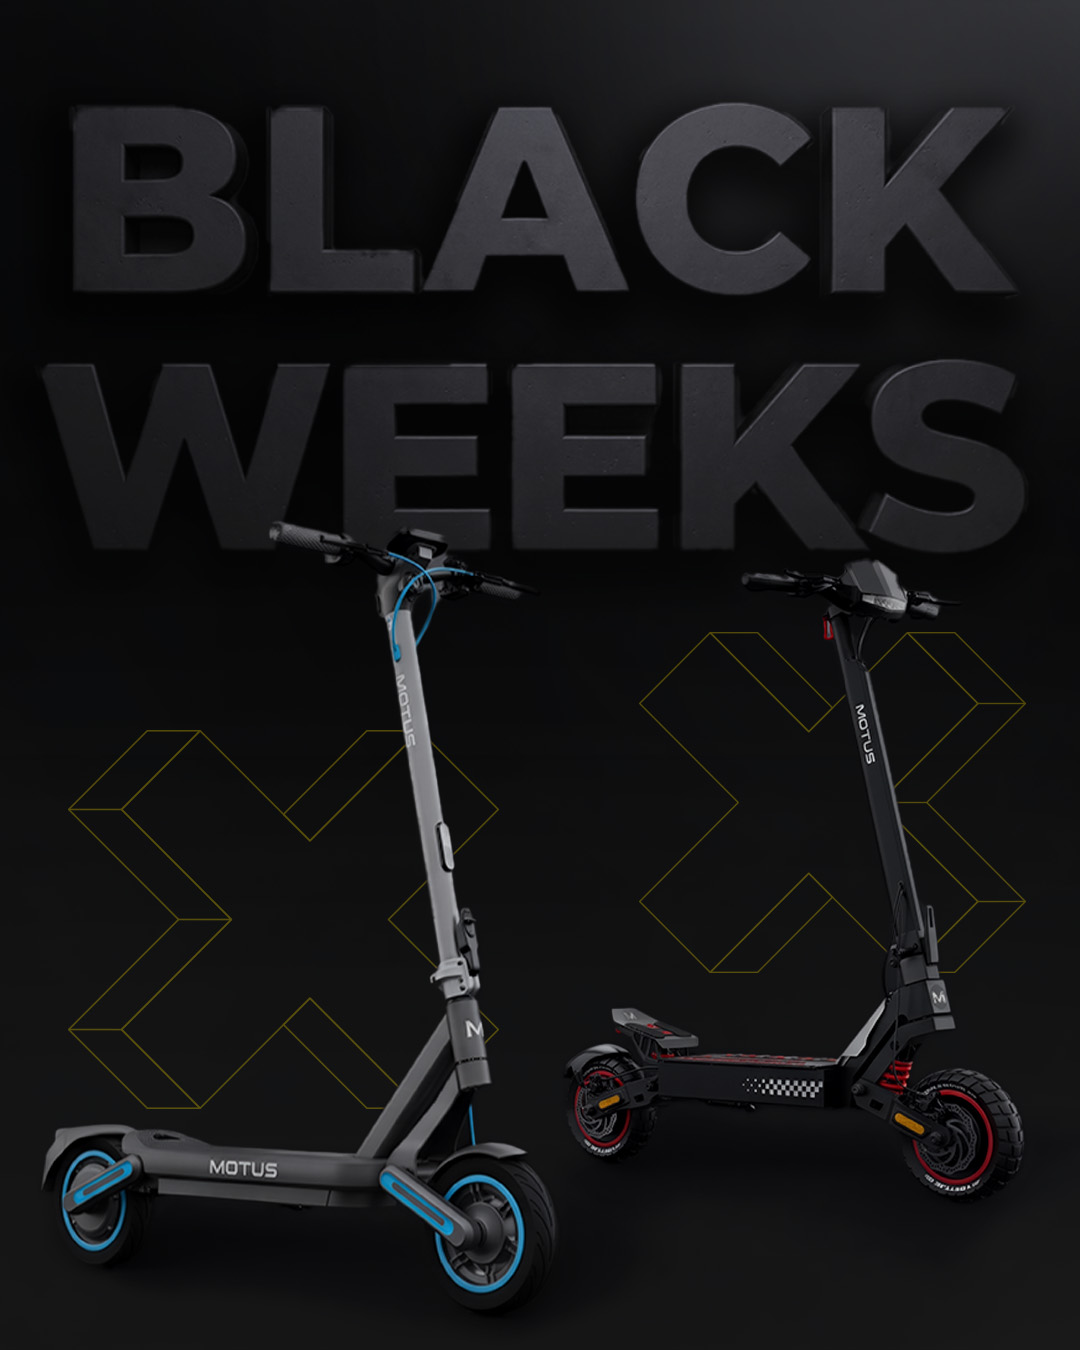
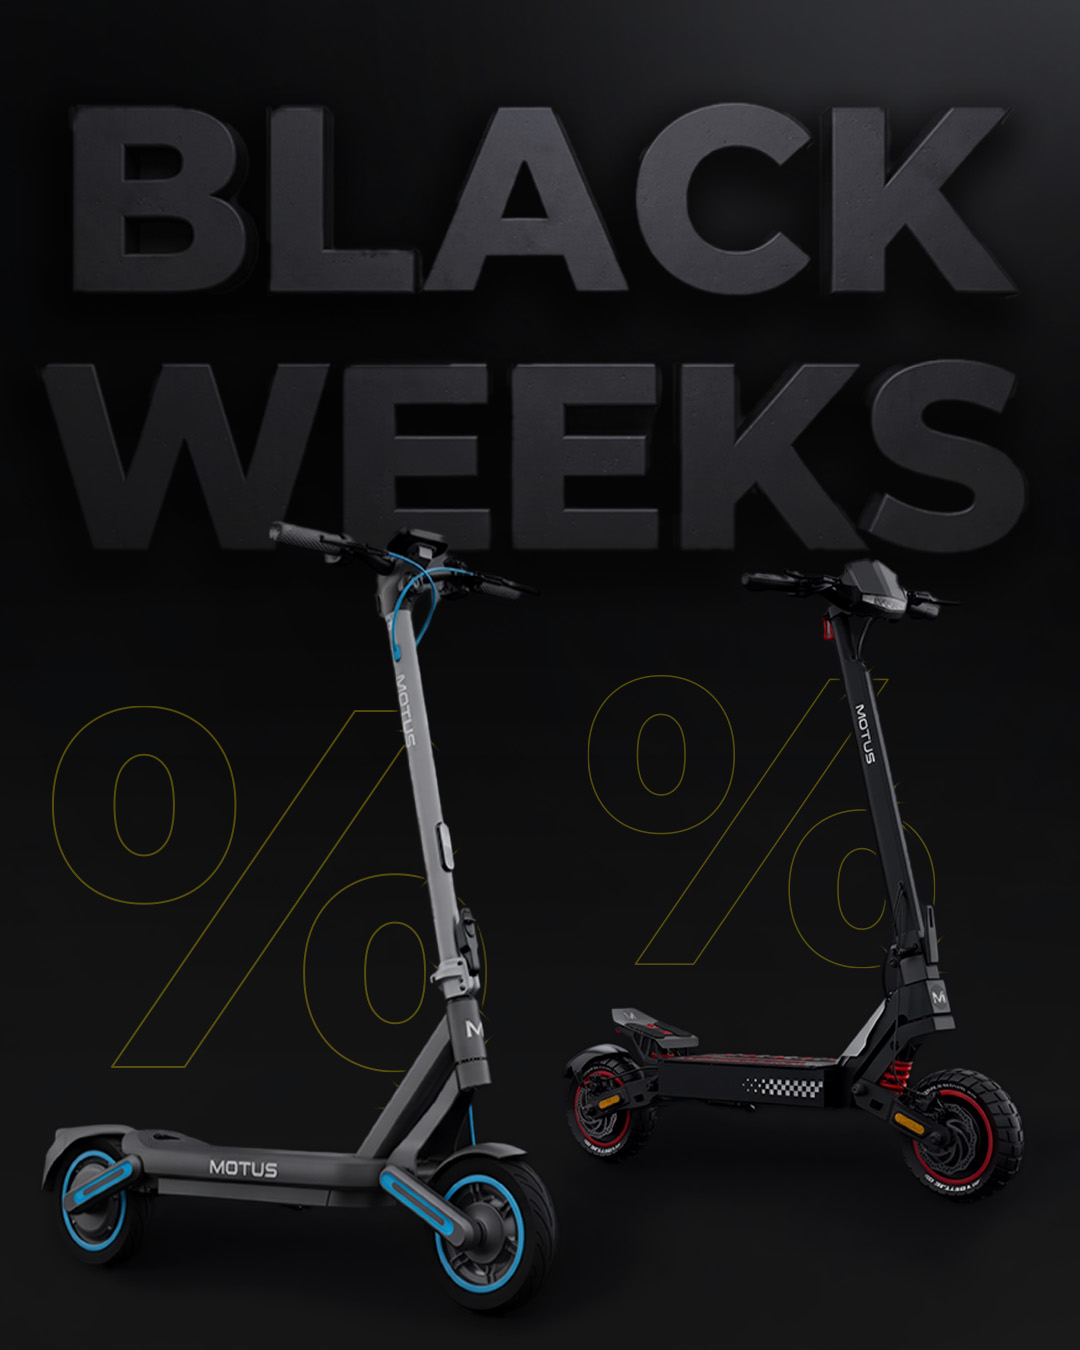
Add files via upload

diff --git a/index.html b/index.html
@@ -10,7 +10,7 @@
 <symbol id="instagram" viewBox="0 0 24 24"><rect x="3" y="3" width="18" height="18" rx="5"/><circle cx="12" cy="12" r="4"/><circle cx="18" cy="6" r=".7"/></symbol>
 <symbol id="youtube" viewBox="0 0 24 24"><rect x="2" y="5" width="20" height="14" rx="4"/><path d="m10 9 6 3-6 3Z"/></symbol>
 </defs></svg>
-<a class="top-strip bw-topbar" href="black-weeks.html" aria-label="BLACK WEEKS — zobacz oferty"><span>BLACK WEEKS</span></a><header><button class="menu-toggle" type="button" aria-label="Otwórz menu" aria-expanded="false" aria-controls="main-nav"><span></span><span></span><span></span></button><a class="brand" href="index.html" aria-label="MOTUS — strona główna"><img src="assets/motus.png" alt="MOTUS"></a><nav id="main-nav" aria-label="Główna nawigacja"><button type="button" class="nav-inactive" disabled>Fitness</button><button type="button" class="mega-trigger" data-mega="scooters" aria-expanded="false" aria-controls="mega-scooters">Hulajnogi</button><button type="button" class="nav-inactive">Egzoszkielety</button><button type="button" class="nav-inactive">Akcesoria</button><button type="button" class="nav-inactive">Serwis i Usługi</button></nav><div class="tools"><form id="search-form" role="search"><button aria-label="Szukaj"><img class="header-icon" src="assets/icon-search.png" alt=""></button><input aria-label="Wyszukaj produkt" placeholder="Szukaj" maxlength="80"></form><button class="icon-button" data-demo="Panel klienta" aria-label="Konto klienta"><img class="header-icon" src="assets/icon-user.png" alt=""></button><button class="icon-button" data-demo="Twój koszyk jest pusty." aria-label="Koszyk"><img class="header-icon" src="assets/icon-cart.png" alt=""></button></div><div class="mega-shell" id="mega-shell" hidden></div></header><button class="menu-backdrop" type="button" aria-label="Zamknij menu" hidden></button>
+<a class="top-strip bw-topbar" href="black-weeks.html" aria-label="BLACK WEEKS — promocje do -30%, zobacz oferty"><span class="bw-strip-messages" aria-hidden="true"><span class="bw-strip-message">BLACK WEEKS</span><span class="bw-strip-message">PROMOCJE DO -30%</span></span></a><header><button class="menu-toggle" type="button" aria-label="Otwórz menu" aria-expanded="false" aria-controls="main-nav"><span></span><span></span><span></span></button><a class="brand" href="index.html" aria-label="MOTUS — strona główna"><img src="assets/motus.png" alt="MOTUS"></a><nav id="main-nav" aria-label="Główna nawigacja"><button type="button" class="nav-inactive" disabled>Fitness</button><button type="button" class="mega-trigger" data-mega="scooters" aria-expanded="false" aria-controls="mega-scooters">Hulajnogi</button><button type="button" class="nav-inactive">Egzoszkielety</button><button type="button" class="nav-inactive">Akcesoria</button><button type="button" class="nav-inactive">Serwis i Usługi</button></nav><div class="tools"><form id="search-form" role="search"><button aria-label="Szukaj"><img class="header-icon" src="assets/icon-search.png" alt=""></button><input aria-label="Wyszukaj produkt" placeholder="Szukaj" maxlength="80"></form><button class="icon-button" data-demo="Panel klienta" aria-label="Konto klienta"><img class="header-icon" src="assets/icon-user.png" alt=""></button><button class="icon-button" data-demo="Twój koszyk jest pusty." aria-label="Koszyk"><img class="header-icon" src="assets/icon-cart.png" alt=""></button></div><div class="mega-shell" id="mega-shell" hidden></div></header><button class="menu-backdrop" type="button" aria-label="Zamknij menu" hidden></button>
 <main id="main-content"><section class="tiles" aria-label="Kategorie MOTUS"><article class="tile wide longevity-carousel" aria-label="Longevity"><picture><source media="(max-width: 600px)" srcset="assets/fitness-mobile_1.jpg" width="1080" height="1350"><img class="category-image" width="1816" height="612" fetchpriority="high" src="assets/fitness.jpg" alt="Placeholder grafiki fitness"></picture><button class="ai" type="button" aria-label="Informacja o grafice AI" aria-expanded="false"><span class="ai-mark">Ai</span><span class="ai-copy">Grafika wygenerowana przy użyciu sztucznej inteligencji (AI).</span></button><div class="tile-overlay"><h2>Longevity</h2><p>Więcej ruchu. Na Twoich zasadach.</p><div class="tile-actions"><button type="button" data-category="Longevity">Przeglądaj</button><button type="button" data-demo="Longevity — dowiedz się więcej">Dowiedz się więcej</button></div></div></article><article class="tile" aria-label="Scooty"><picture><source media="(max-width: 600px)" srcset="assets/city-mobile.jpg" width="1080" height="1350"><img class="category-image" width="895" height="612" loading="lazy" src="assets/city.jpg" alt="Placeholder hulajnóg miejskich"></picture><button class="ai" type="button" aria-label="Informacja o grafice AI" aria-expanded="false"><span class="ai-mark">Ai</span><span class="ai-copy">Grafika wygenerowana przy użyciu sztucznej inteligencji (AI).</span></button><div class="tile-overlay"><h2>Scooty</h2><p>Miasto w Twoim rytmie</p><div class="tile-actions"><button type="button" data-category="Scooty">Przeglądaj</button><button type="button" data-demo="Scooty — dowiedz się więcej">Dowiedz się więcej</button></div></div></article><article class="tile" aria-label="Daytona"><picture><source media="(max-width: 600px)" srcset="assets/power-mobile.jpg" width="1080" height="1350"><img class="category-image" width="895" height="612" loading="lazy" src="assets/power.jpg" alt="Placeholder hulajnóg terenowych"></picture><button class="ai" type="button" aria-label="Informacja o grafice AI" aria-expanded="false"><span class="ai-mark">Ai</span><span class="ai-copy">Grafika wygenerowana przy użyciu sztucznej inteligencji (AI).</span></button><div class="tile-overlay"><h2>Daytona</h2><p>Odkryj nowy wymiar mocy</p><div class="tile-actions"><button type="button" data-category="Daytona">Przeglądaj</button><button type="button" data-demo="Daytona — dowiedz się więcej">Dowiedz się więcej</button></div></div></article><article class="tile wide" aria-label="Egzoszkielety"><picture><source media="(max-width: 600px)" srcset="assets/exo-mobile.jpg" width="1080" height="1350"><img class="category-image" width="1816" height="612" loading="lazy" src="assets/exo.jpg" alt="Placeholder egzoszkieletów"></picture><button class="ai" type="button" aria-label="Informacja o grafice AI" aria-expanded="false"><span class="ai-mark">Ai</span><span class="ai-copy">Grafika wygenerowana przy użyciu sztucznej inteligencji (AI).</span></button><div class="tile-overlay"><h2>Egzoszkielety</h2><p>Wsparcie w każdym ruchu</p><div class="tile-actions"><button type="button" data-category="Egzoszkielety">Przeglądaj</button><button type="button" data-demo="Egzoszkielety — dowiedz się więcej">Dowiedz się więcej</button></div></div></article></section>
 <section class="why-motus" aria-labelledby="why-title"><div class="section-heading"><h2 id="why-title">Dlaczego MOTUS?</h2><p>Co zyskujesz w oficjalnym sklepie MOTUS.</p></div><div class="benefits-grid"><article class="benefit-card"><div class="benefit-icon"><img src="assets/benefit-store.png" width="64" height="64" loading="lazy" alt=""></div><h3>Kupujesz prosto od marki</h3><p>Zamawiasz bezpośrednio u MOTUS, marki, która w Polsce odpowiada za gwarancję, serwis i części.</p><button type="button" class="text-action" data-demo="Poznaj MOTUS">Poznaj MOTUS<span aria-hidden="true">↗</span></button></article><article class="benefit-card"><div class="benefit-icon"><img src="assets/benefit-service.png" width="64" height="64" loading="lazy" alt=""></div><h3>Ponad 20 punktów serwisowych</h3><p>Autoryzowane serwisy w Polsce.</p><button type="button" class="text-action" data-demo="Znajdź serwis">Znajdź serwis<span aria-hidden="true">↗</span></button></article><article class="benefit-card"><div class="benefit-icon"><img src="assets/benefit-delivery.png" width="64" height="64" loading="lazy" alt=""></div><h3>Darmowa dostawa od 250 zł</h3><p>InPost Kurier, UPS albo DHL. Do 249,99 zł dostawa kosztuje 12 zł.</p><button type="button" class="text-action" data-demo="Zobacz warunki">Zobacz warunki<span aria-hidden="true">↗</span></button></article><article class="benefit-card"><div class="benefit-icon"><img src="assets/benefit-shield.png" width="64" height="64" loading="lazy" alt=""></div><h3>2 lata gwarancji</h3><p>Na hulajnogi elektryczne Motus, z naprawami gwarancyjnymi w Polsce.</p><button type="button" class="text-action" data-demo="Sprawdź warunki">Sprawdź warunki<span aria-hidden="true">↗</span></button></article><article class="benefit-card"><div class="benefit-icon"><img src="assets/benefit-helmet.png" width="64" height="64" loading="lazy" alt=""></div><h3>Akcesoria</h3><p>Kaski, zabezpieczenia, pielęgnacja i odzież MOTUS.</p><button type="button" class="text-action" data-demo="Zobacz kategorię">Zobacz kategorię<span aria-hidden="true">↗</span></button></article><article class="benefit-card"><div class="benefit-icon"><img src="assets/benefit-gps.png" width="64" height="64" loading="lazy" alt=""></div><h3>Usługi przy zakupie</h3><p>Dodatkowe doszczelnienie i montaż lokalizatora GPS.</p><button type="button" class="text-action" data-demo="Zobacz usługi">Zobacz usługi<span aria-hidden="true">↗</span></button></article></div></section><section class="premiere" aria-labelledby="premiere-title"><h1 id="premiere-title">Bądź pierwszy przy nowościach MOTUS</h1><p>Zostaw e-mail, a napiszemy, gdy ruszy premiera nowego modelu.</p><form class="newsletter light" novalidate><label class="signup-label" for="premiere-email">Adres e-mail</label><div class="email-row"><input id="premiere-email" aria-describedby="premiere-status" type="email" autocomplete="email" inputmode="email" aria-label="Adres e-mail" placeholder="Adres e-mail" required maxlength="254"><button type="submit">Zapisz się</button></div><label class="consent"><input type="checkbox" required><span>Chcę otrzymywać e-mailem informacje o nowościach i ofercie MOTUS. Zgodę mogę wycofać w każdej chwili. Więcej w <button type="button" data-demo="Polityka prywatności">Polityce prywatności</button>.</span></label><p id="premiere-status" class="form-status" aria-live="polite" aria-atomic="true"></p></form></section></main>
 <footer><div class="footer-top"><section class="contact"><a href="index.html"><img class="footer-logo" src="assets/motus-white.png" alt="MOTUS"></a><div class="socials"><button data-demo="Facebook MOTUS" aria-label="Facebook"><b>f</b></button><button data-demo="Instagram MOTUS" aria-label="Instagram"><svg><use href="#instagram"/></svg></button><button data-demo="YouTube MOTUS" aria-label="YouTube"><svg><use href="#youtube"/></svg></button><button data-demo="TikTok MOTUS" aria-label="TikTok"><b>♪</b></button></div><p>Obsługa klienta: pon.-pt. 8:00-16:00</p><a class="contact-link" href="tel:+48128899935"><i><svg><use href="#phone"/></svg></i>12 889 99 35</a><a class="contact-link" href="mailto:sklep@motus.pl"><i><svg><use href="#mail"/></svg></i>sklep@motus.pl</a></section><section><h2>Hulajnogi</h2><div class="footer-links" data-links="Wszystkie hulajnogi|Scooty 8.5|Scooty 10|Daytona|Porównaj hulajnogi"></div></section><section><h2>Fitness i akcesoria</h2><div class="footer-links" data-links="Fitness|Walking pady|Bieżnie|Porównaj bieżnie|Egzoszkielety|Akcesoria|Kaski|Zabezpieczenia"></div></section><section><h2>Pomoc</h2><div class="footer-links" data-links="Usługi dodatkowe|Dostawa i płatności|Raty 0%|Gwarancja i serwis|Autoryzowane serwisy|Instrukcje|Pomoc i FAQ|Kontakt"></div></section><section><h2>O MOTUS</h2><div class="footer-links" data-links="O nas"></div></section></div><section class="footer-news"><h2>Newsletter MOTUS</h2><p>Nowości i informacje od MOTUS prosto na Twój e-mail.</p><form class="newsletter dark" novalidate><div class="email-row"><input type="email" autocomplete="email" inputmode="email" aria-label="Twój e-mail do newslettera" placeholder="Wprowadź swój email" required maxlength="254"><button type="submit" aria-label="Zapisz się do newslettera"><svg><use href="#arrow"/></svg></button></div><label class="consent"><input type="checkbox" required><span>Chcę otrzymywać e-mailem informacje o nowościach i ofercie MOTUS. Zgodę mogę wycofać w każdej chwili. Więcej w <button type="button" data-demo="Polityka prywatności">Polityce prywatności</button>.</span></label><p class="form-status" aria-live="polite"></p></form></section><div class="footer-bottom"><div><p>© 2026 MOTUS</p><div class="legal" data-links="Polityka prywatności|Warunki świadczenia usług|Polityka zwrotu kosztów|Polityka wysyłki|Dane kontaktowe|Nota prawna"></div></div><img src="assets/payments.png" alt="Placeholder metod płatności"></div></footer>

diff --git a/black-weeks.html b/black-weeks.html
@@ -10,7 +10,7 @@
 <symbol id="instagram" viewBox="0 0 24 24"><rect x="3" y="3" width="18" height="18" rx="5"/><circle cx="12" cy="12" r="4"/><circle cx="18" cy="6" r=".7"/></symbol>
 <symbol id="youtube" viewBox="0 0 24 24"><rect x="2" y="5" width="20" height="14" rx="4"/><path d="m10 9 6 3-6 3Z"/></symbol>
 </defs></svg>
-<a class="top-strip bw-topbar" href="black-weeks.html" aria-label="BLACK WEEKS — zobacz oferty"><span>BLACK WEEKS</span></a><header><button class="menu-toggle" type="button" aria-label="Otwórz menu" aria-expanded="false" aria-controls="main-nav"><span></span><span></span><span></span></button><a class="brand" href="index.html" aria-label="MOTUS — strona główna"><img src="assets/motus.png" alt="MOTUS"></a><nav id="main-nav" aria-label="Główna nawigacja"><button type="button" class="nav-inactive" disabled>Fitness</button><button type="button" class="mega-trigger" data-mega="scooters" aria-expanded="false" aria-controls="mega-scooters">Hulajnogi</button><button type="button" class="nav-inactive">Egzoszkielety</button><button type="button" class="nav-inactive">Akcesoria</button><button type="button" class="nav-inactive">Serwis i Usługi</button></nav><div class="tools"><form id="search-form" role="search"><button aria-label="Szukaj"><img class="header-icon" src="assets/icon-search.png" alt=""></button><input aria-label="Wyszukaj produkt" placeholder="Szukaj" maxlength="80"></form><button class="icon-button" data-demo="Panel klienta" aria-label="Konto klienta"><img class="header-icon" src="assets/icon-user.png" alt=""></button><button class="icon-button" data-demo="Twój koszyk jest pusty." aria-label="Koszyk"><img class="header-icon" src="assets/icon-cart.png" alt=""></button></div><div class="mega-shell" id="mega-shell" hidden></div></header><button class="menu-backdrop" type="button" aria-label="Zamknij menu" hidden></button>
+<a class="top-strip bw-topbar" href="black-weeks.html" aria-label="BLACK WEEKS — promocje do -30%, zobacz oferty"><span class="bw-strip-messages" aria-hidden="true"><span class="bw-strip-message">BLACK WEEKS</span><span class="bw-strip-message">PROMOCJE DO -30%</span></span></a><header><button class="menu-toggle" type="button" aria-label="Otwórz menu" aria-expanded="false" aria-controls="main-nav"><span></span><span></span><span></span></button><a class="brand" href="index.html" aria-label="MOTUS — strona główna"><img src="assets/motus.png" alt="MOTUS"></a><nav id="main-nav" aria-label="Główna nawigacja"><button type="button" class="nav-inactive" disabled>Fitness</button><button type="button" class="mega-trigger" data-mega="scooters" aria-expanded="false" aria-controls="mega-scooters">Hulajnogi</button><button type="button" class="nav-inactive">Egzoszkielety</button><button type="button" class="nav-inactive">Akcesoria</button><button type="button" class="nav-inactive">Serwis i Usługi</button></nav><div class="tools"><form id="search-form" role="search"><button aria-label="Szukaj"><img class="header-icon" src="assets/icon-search.png" alt=""></button><input aria-label="Wyszukaj produkt" placeholder="Szukaj" maxlength="80"></form><button class="icon-button" data-demo="Panel klienta" aria-label="Konto klienta"><img class="header-icon" src="assets/icon-user.png" alt=""></button><button class="icon-button" data-demo="Twój koszyk jest pusty." aria-label="Koszyk"><img class="header-icon" src="assets/icon-cart.png" alt=""></button></div><div class="mega-shell" id="mega-shell" hidden></div></header><button class="menu-backdrop" type="button" aria-label="Zamknij menu" hidden></button>
 <main id="main-content" class="bw-main">
 <div class="bw-breadcrumb"><a href="index.html">Strona główna</a><span aria-hidden="true">/</span><span aria-current="page">Black Weeks</span></div>
 <section class="bw-hero" aria-label="Baner BLACK WEEKS MOTUS"><picture><source media="(max-width:600px)" srcset="assets/black-weeks-hero-mobile.jpg" width="1080" height="1350"><img src="assets/black-weeks-hero.jpg" width="1816" height="612" alt="Czarna i grafitowa kompozycja z żółtym akcentem — baner Black Weeks MOTUS" fetchpriority="high"></picture></section>

diff --git a/black-weeks.css b/black-weeks.css
@@ -90,3 +90,26 @@ header nav button.nav-inactive:disabled{opacity:1;color:inherit;cursor:default}
 header nav button.nav-inactive:disabled:hover{color:inherit}
 @media(max-width:1024px){.bw-page .bw-category-nav a>span{font-size:11px;gap:12px}.bw-page .bw-intro{gap:28px}.bw-page .bw-category-nav a{padding:18px 22px}.bw-page .bw-section-head h2{gap:18px}}
 @media(max-width:600px){.bw-page .bw-intro{padding:32px 4px;gap:24px}.bw-page .bw-intro-copy{justify-self:start}.bw-page .bw-category-nav a{padding:15px 18px;min-height:62px}.bw-page .bw-category-nav strong{font-size:16px}.bw-page .bw-category-nav a>span{display:none}.bw-page .bw-shopping-tools{padding-top:20px;gap:10px}.bw-page .bw-product-section{padding:32px 0 22px}.bw-page .bw-product-section+.bw-product-section{margin-top:16px;padding-top:36px}.bw-page .bw-section-head h2{font-size:36px;display:block;letter-spacing:-1px}.bw-page .bw-section-head h2 span{display:block;font-size:14px;margin-top:8px}.bw-page .bw-section-head{margin-bottom:22px}.bw-page .bw-help{margin-top:32px}}
+
+
+/* Revision 22: synchronized right-to-left sale wipe. */
+.bw-page{--bw-scooty:var(--aqua);--bw-daytona:#e53935}
+.bw-page .bw-category-nav a[href="#scooty"].is-active,
+.bw-page .bw-category-nav a[href="#scooty"].is-active strong{background:var(--bw-scooty);color:#fff}
+.bw-page .bw-category-nav a[href="#daytona"].is-active{background:var(--bw-daytona);color:#fff}
+.bw-page .bw-category-nav a[href="#daytona"].is-active strong{color:#fff}
+.bw-page #scooty .bw-section-head h2 span{color:var(--bw-scooty)}
+.bw-page #daytona .bw-section-head h2 span{color:var(--bw-daytona)}
+a.bw-topbar,a.bw-topbar:hover{color:#888;overflow:hidden}
+a.bw-topbar span,a.bw-topbar:hover span,a.bw-topbar:focus-visible span{animation:none;text-shadow:none;transform:none;will-change:auto}
+a.bw-topbar .bw-strip-messages{position:relative;display:block;width:min(100%,420px);height:1.8em;overflow:hidden;isolation:isolate;font-weight:850}
+a.bw-topbar .bw-strip-messages .bw-strip-message{position:absolute;inset:0;display:flex;align-items:center;justify-content:center;white-space:nowrap;font-size:inherit;color:#888;animation:bw-wipe-title 12s linear infinite;will-change:clip-path;transform:none;text-shadow:none}
+a.bw-topbar .bw-strip-messages .bw-strip-message:nth-child(2){color:#ffe100;text-shadow:0 0 10px #ffe10070,0 0 22px #ffe10030;animation-name:bw-wipe-sale;animation-delay:0s}
+a.bw-topbar .bw-strip-messages::after{content:'';position:absolute;top:0;bottom:0;left:0;width:2px;background:#ffe100;box-shadow:8px 0 12px 6px #050505b3,-2px 0 8px #ffe10070;pointer-events:none;z-index:2;animation:bw-wipe-line 12s linear infinite}
+@keyframes bw-wipe-title{0%,40%{clip-path:inset(0 0 0 0)}48%,90%{clip-path:inset(0 100% 0 0)}90.01%{clip-path:inset(0 0 0 100%)}98%,100%{clip-path:inset(0 0 0 0)}}
+@keyframes bw-wipe-sale{0%,40%{clip-path:inset(0 0 0 100%)}48%,90%{clip-path:inset(0 0 0 0)}98%,100%{clip-path:inset(0 100% 0 0)}}
+@keyframes bw-wipe-line{0%,39.99%{left:100%;opacity:0}40%{left:100%;opacity:1}48%{left:0;opacity:1}48.01%,89.99%{left:100%;opacity:0}90%{left:100%;opacity:1}98%{left:0;opacity:1}98.01%,100%{left:0;opacity:0}}
+a.bw-topbar:hover .bw-strip-messages .bw-strip-message,a.bw-topbar:focus-visible .bw-strip-messages .bw-strip-message{animation-play-state:paused}
+a.bw-topbar:hover .bw-strip-messages::after,a.bw-topbar:focus-visible .bw-strip-messages::after{animation-play-state:paused}
+@media(max-width:600px){a.bw-topbar .bw-strip-messages{font-size:12px;letter-spacing:2px}}
+@media(prefers-reduced-motion:reduce){a.bw-topbar .bw-strip-messages .bw-strip-message{animation:none;clip-path:none;will-change:auto}a.bw-topbar .bw-strip-messages .bw-strip-message:nth-child(2),a.bw-topbar .bw-strip-messages::after{display:none}}
